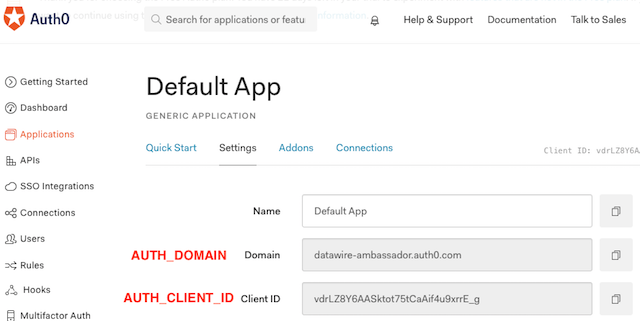
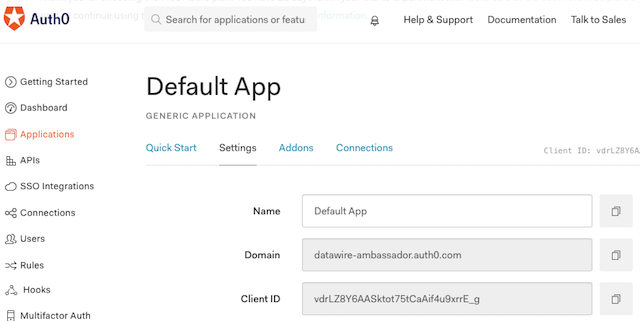
Changed documentation for configuring authentication with Ambassador Pro.
Ambassador Pro now uses the `tenant` CRD to configure authentication.

Updated the YAML template to reflect these changes as well as upgrading to v1 configs.

Changed region(s): [[0.1875, 0.9034, 0.375, 0.9657], [0.1875, 0.7788, 0.375, 0.81]]

diff --git a/user-guide/oauth-oidc-auth.md b/user-guide/oauth-oidc-auth.md
@@ -1,163 +1,106 @@
 # Configuring OAuth/OIDC Authentication
 ---
 
-Ambassador Pro adds native support for the OAuth and OIDC authentication schemes for single sign-on with various identity providers (IDPs). This guide will demonstrate configuration using the Auth0 IDP. 
+Ambassador Pro adds native support for the OAuth and OIDC authentication schemes for single sign-on with various identity providers (IDPs). This guide will demonstrate configuration using Auth0 as your IDP. 
 
-Note: If you need to use an IDP other than Auth0, please contact us. We are currently testing support for other IDPs, including Keycloak, Okta, and AWS Cognito.
+**Note:** If you need to use an IDP other than Auth0, please contact us. We are currently testing support for other IDPs, including Keycloak, Okta, and AWS Cognito.
 
-## Configuring Environment Variables
-Auth0 integration supports two different configuration patterns. The [default configuration](/user-guide/oauth-oidc-auth#auth0-default-configuration) integrates Auth0 with Ambassador Pro without verification from the Auth0 management API. If you want the Auth0 management API to verify your application configuration, follow the [validation mode configuration](/user-guide/oauth-oidc-auth#auth0-validation-mode-configuration).
-
-### Auth0 Default Configuration
-
-Integrating Auth0 with the Ambassador Pro Authentication service is done by setting evironment variables in the deployment manifest. In your deployment file, configure the `AUTH_CALLBACK_URL`, `AUTH_DOMAIN`, `AUTH_AUDIENCE`, and `AUTH_CLIENT_ID` environment variables based on your Auth0 configuration. (You'll need to create an Auth0 custom API if you haven't already.)
-
-* `AUTH_DOMAIN` is your Auth0 domain, e.g., foo.auth0.com.
-* `AUTH_CLIENT_ID` is the client ID of your application.
-* `AUTH_AUDIENCE` is listed on the API page https://manage.auth0.com/#/apis
-* `AUTH_CALLBACK_URL` is the URL where you want to send users once they've authenticated.
-
-#### Configuration
-- `AUTH_DOMAIN` = datawire-ambassador.auth0.com
-- `AUTH_CLIENT_ID` = vdrLZ8Y6AASktot75tCaAif4u9xrrE_g
+## Set Your Auth Provider
+You first need to tell Ambassador Pro which URL to redirect to for authentication. If you are using Auth0, this URL will be the Domain of your Auth0 application and which can be found here:
 
 ![](/images/Auth0_domain_clientID.png)
 
-- `AUTH_AUDIENCE` = https://datawire-ambassador.auth0.com/api/v2/
-
-![](/images/Auth0_audience.png)
-
-- `AUTH_CALLBACK_URL` = https://datawire-ambassador.com/callback
-
-
-1. Configure the environment variables with the correct values, e.g., 
-
 ```
 env:
-- name: AUTH_CALLBACK_URL
-  value: https://datawire-ambassador.com/callback
-- name: AUTH_DOMAIN
-  value: datawire-ambassador.auth0.com
-- name: AUTH_AUDIENCE
-  value: https://datawire-ambassador.auth0.com/api/v2/
-- name: AUTH_CLIENT_ID
-  value: vdrLZ8Y6AASktot75tCaAif4u9xrrE_g
+# Auth provider's abolute url: {scheme}://{host}
+- name: AUTH_PROVIDER_URL
+  value: https://datawire-ambassador.auth0.com
 ```
 
-2. Set `Token Endpoint Authentication Method` to `None`.
-3. Add the value of `AUTH_CALLBACK_URL` to `Allowed Callback URLs`.
-4. Add your domain to `Allowed Web Origins`.
-5. Deploy your Ambassador Pro configuration to the cluster: `kubectl apply -f ambassador-pro-auth.yaml`. This will:
-	* Create the Ambassador Pro deployment and appropriate cluster resources
-	* Create a [Policy](/reference/services/access-control) custom resource definition that will be used to manage access control
-6. [Test the application.](/user-guide/oauth-oidc-auth/#test-the-auth0-application)
+## Configure your Authentication Tenants
+Ambassador Pro's authentication service is configured per application you need authenticating. This is configured with the `Tenant` custom resource definition. 
 
-![](/images/Auth0_none.png)
+To configure your tenant, create the following YAML and put it in a file called `tenants.yaml`.
 
+```
+---
+apiVersion: stable.datawire.io/v1beta1
+kind: Tenant
+metadata:
+  name: tenant
+spec:
+  tenants:
+  
+    # The URL used to access your app.
+    - tenantUrl: {scheme}://{hostname or ip}
+    # The API Audience that is listening for authentication requests
+      audience: <AUDIENCE>
+    # Client ID from your authentication application
+      clientId: <CLIENT_ID>
+    # Client Secret from your authentication application
+      secret: <CLIENT_SECRET>
+```
 
-### Auth0 Validation Mode Configuration
-When deployed in validation mode, Ambassador Pro will validate configuration via the Auth0 management API. In the future, we may add more automatic configuration via the management API. 
-
-#### Configuration
-The `AUTH_CALLBACK_URL`, `AUTH_DOMAIN`, `AUTH_AUDIENCE` and `AUTH_CLIENT_ID` environment variables need to be configured, same as the [default configuration](/user-guide/oauth-oidc-auth#auth0-default-configuration). An extra environment variable, `AUTH_CLIENT_SECRET` is also required for the validation configuration.
+If you are using Auth0, grab the Client ID and Client Secret from your application settings:
 
 ![](/images/Auth0_secret.png)
 
-1. Configure the environment variables with the correct values, e.g.,
+The `audience` is the API Audience of your Auth0 Management API:
+
+![](/images/Auth0_audience.png)
+
+## Configure Authentication Across Multiple Domains
+
+Ambassador Pro allows authentication from multiple domains. This is easily configured in your `tenants.yaml` file. Each tenant object is processed separately allowing for you to define multiple tenants authenticating with the same IDP. 
+
+Example:
 
 ```
-env:
-- name: AUTH_CALLBACK_URL
-  value: https://datawire-ambassador.com/callback
-- name: AUTH_DOMAIN
-  value: datawire-ambassador.auth0.com
-- name: AUTH_AUDIENCE
-  value: https://datawire-ambassador.auth0.com/api/v2/
-- name: AUTH_CLIENT_ID
-  value: vdrLZ8Y6AASktot75tCaAif4u9xrrE_g
-- name: AUTH_CLIENT_SECRET
-  value: <CLIENT SECRET>
+---
+apiVersion: stable.datawire.io/v1beta1
+kind: Tenant
+metadata:
+  name: tenant
+spec:
+  tenants:
+  
+    # Domain 1
+    - tenantUrl: http://domain1.example.com
+      audience: https://datawire-ambassador.auth0.com/api/v2/
+      clientId: <CLIENT_ID>
+      secret: <CLIENT_SECRET>
+    
+    # Domain 2
+    - tenantUrl: http://domain2.example.com
+      audience: https://datawire-ambassador.auth0.com/api/v2/
+      clientId: <CLIENT_ID>
+      secret: <CLIENT_SECRET>
 ```
-2. Set `Token Endpoint Authentication Method` to `POST`.
-3. Add the value of `AUTH_CALLBACK_URL` to `Allowed Callback URLs`.
-4. Add your domain to `Allowed Web Origins`.
 
-![](/images/Auth0_method_callback_origins.png)
+This will configure Ambassador Pro to require authentication from requests to `http://domain1.example.com` and `http://domain2.example.com`. Ambassador Pro will then create a separate SSO token for each domain.
 
-5. Authorize the application to access Auth0 management api (APIs/Machine to Machine Applications/click the dropdown) and following scopes have been granted:
-	* read:clients
-	* read:grants
-6. Set the following grant types (Applications/Advanced Settings/Grant Types): 
-	* Authorization Code
-	* Client Credentials
-7. Deploy your Ambassador Pro configuration to the cluster: `kubectl apply -f ambassador-pro-auth.yaml`. This will:
-	* Create the Ambassador Pro deployment and appropriate cluster resources
-	* Create a [Policy](/reference/services/access-control) custom resource definition that will be used to manage access control
-8. [Test the application.](/user-guide/oauth-oidc-auth/#test-the-auth0-application)
+**Note:** ensure both domains and callback URLs are listed in `Allowed Web Origins` and `Allowed Callback URLs` respectively. 
 
+## Test Authentication
+After applying Ambassador Pro and the `tenants.yaml` file, Ambassador Pro should be configured to authenticate with your IDP. You can use any service to test this. From a web browser, attempt to access your service e.g. `http://domain1.example.com/httpbin/`. You should be redirected to an Auth0 login page. Log in using your credentials and you should be redirected to your application. Test SSO by attempting to access the application from a different tab. You should be sent to your application without being redirected to Auth0. 
 
-## Test the Auth0 Application
-Authentication policies are managed by the `policy` CRD we deployed in the configuration step. We can deploy an authentication policy and test this Auth0 application using the example `httpbin` service in the [YAML installation guide](/user-guide/getting-started#3-creating-your-first-route).
-
-1. If applied, delete the Ambassador Pro authentication service.
-2. Deploy the `httpbin` service.
-3. Verify the service is working:
-
-   ```
-   $ curl http://$AMBASSADOR_IP/httpbin/ip
-   {
-    "origin": "35.205.31.151"
-   }
-   $ curl http://$AMBASSADOR_IP/httpbin/user-agent
-   {
-    "user-agent": "curl/7.54.0"
-   }
-   ```
-4. Deploy Ambasador Pro Authentication 
+## Configure Access Controls
+By default, Ambassador Pro will require all requests be authenticated before passing through. If some services or resources do not require authentication, Ambassador Pro allows for you to configure which services you want authenticated. This is done with the `Policy` custom resource definition. 
 
 ```
-$ kubectl apply -f ambassador-pro-auth.yaml
-$ kubectl apply -f ambassador-pro-auth-service.yaml
+---
+apiVersion: stable.datawire.io/v1beta1
+kind: Policy
+metadata:
+  name: policy
+spec:
+  rules:
+  - host: "*"
+    path: /httpbin/ip
+    public: true
+  - host: "*"
+    path: /httpbin/user-agent
+    public: false
 ```
-5. Resend the curl requests, you will notice it now requires authentication.
-6. Deploy an `httpbin` authentication `policy`. Refer to the [Access Control](/reference/services/access-control) documentation for more information.
-   
-   ```
-   apiVersion: stable.datawire.io/v1beta1
-   kind: Policy
-   metadata:
-     name: httpbin-policy
-   spec:
-     rules:
-      - host: "*"
-        path: /callback
-        public: true
-      - host: "*"
-        path: /httpbin/ip
-        public: true
-      - host: "*"
-        path: /httpbin/user-agent/*
-        public: false
-      - host: "*"
-        path: /httpbin/headers/*
-        scopes: "read:test"
-   ```
-7. Test the policy worked with `cURL`:
+This policy will tell Ambassador Pro to not require authentication for requests to `http://example.com/httpbin/ip`. See [Access Control](/reference/services/access-control) for more information.
 
-   ```
-   $ curl http://$AMBASSADOR_IP/httpbin/ip
-   {
-    "origin": "35.205.31.151"
-   }
-   $ curl http://$AMBASSADOR_IP/httpbin/user-agent
-   <a href="https://xxx.auth0.com/authorize?audience=https://xxx.auth0.com/api/v2/&amp;response_type=code&amp;redirect_uri=http://35.226.13.0/callback&amp;client_id=Z6m3lwCot6GaThT4L142nkOKNPeDe87n&amp;state=eyJhbGciOiJIUzI1NiIsInR5cCI6IkpXVCJ9.eyJleHAiOjE1MzY2OTQ2MjglhdCI6MUzNjY5NDMyOCwianRpIjoiN2FjOThjZTQtYjdjZi00NTU3LTlkYTEtZGJjNzZjYzNjZjg4IiwibmJmIjowLCJwYXRoIjoiL2h0dHBiaW4vdXNi1hZ2VudCJ9.NtBA5deqPn5XI7vonca4tpgYNrM-212TiQhTZ_KzWos&amp;scope=offline_access openid profile">See Other</a>
-   ```
-8. Visit `http://$AMBASSADOR_IP/httpbin/user-agent` and you should be redirected to an Auth0 log in page. 
-9. If you want to test with a JWT, you can get a JWT from Auth0. To do this, click on APIs, then the custom API you're using for the Ambassador Authentication service, and then the Test tab. Pass the JWT in the authorization: Bearer HTTP header:
-
-```
-   $ curl --header 'authorization: Bearer eyeJdfasdf...' http://$AMBASSADOR_IP/httpbin/user-agent
-   {
-     "user-agent": "curl/7.54.0"
-   }
-```
